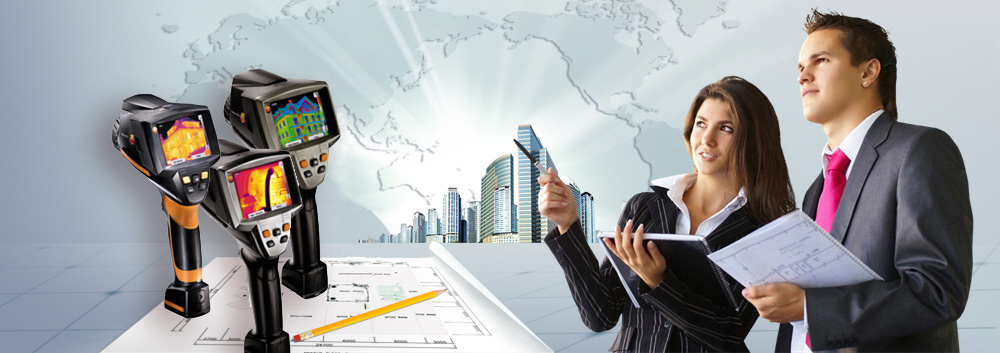
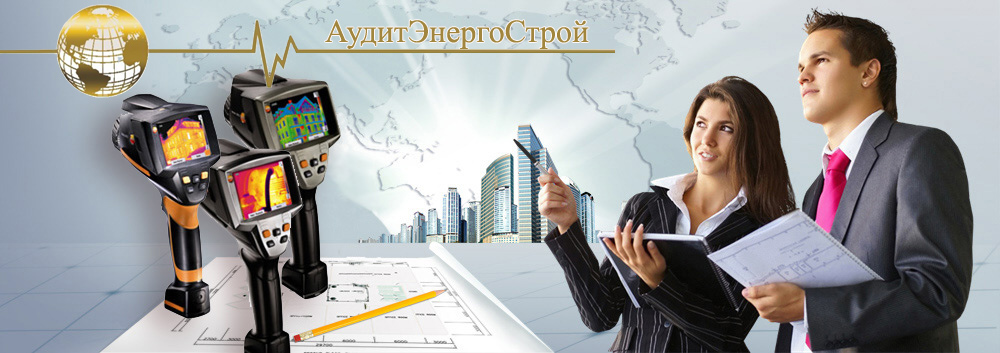
добавлены две страницы. Партнеры и лицензии. Убран логотип.

Changed region(s): [[0.0, 0.0, 0.62, 0.2805]]

diff --git a/template/main/license.html b/template/main/license.html
@@ -1,0 +1,38 @@
+{% extends "layouts/archi.html" %}
+{% block add_css %}
+	<link rel="stylesheet" type="text/css" href="/public/css/application/main/license/style.css" media="screen"/>
+{% endblock %}
+
+{% block title %}Лицензии{% endblock %}
+
+{% block body_title_with_url %}
+	<h2 class="art-postheader">
+		Лицензии
+	</h2>
+{% endblock %}
+
+{% block body_text %}
+	<div class="center">
+		<p>
+			<a href="/public/img/application/main/license/apm_makarov.jpg"><img src="/public/img/application/main/license/preview/apm_makarov.jpg"></a>
+		</p>
+		<p>
+			<a href="/public/img/application/main/license/apm_suhih.jpg"><img src="/public/img/application/main/license/preview/apm_suhih.jpg"></a>
+		</p>
+		<p>
+			<a href="/public/img/application/main/license/mku.jpg"><img src="/public/img/application/main/license/preview/mku.jpg"></a>
+		</p>
+		<p>
+			<a href="/public/img/application/main/license/cpo.jpg"><img src="/public/img/application/main/license/preview/cpo.jpg"></a>
+		</p>
+		<p>
+			<a href="/public/img/application/main/license/suu.jpg"><img src="/public/img/application/main/license/preview/suu.jpg"></a>
+		</p>
+		<p>
+			<a href="/public/img/application/main/license/tuu.jpg"><img src="/public/img/application/main/license/preview/tuu.jpg"></a>
+		</p>
+		<p>
+			<a href="/public/img/application/main/license/udza.jpg"><img src="/public/img/application/main/license/preview/udza.jpg"></a>
+		</p>
+	</div>
+{% endblock %}

diff --git a/template/layouts/archi.html b/template/layouts/archi.html
@@ -79,6 +79,13 @@
 								<span class="t">Предложение заказчика</span>
 							</a>
 						</li>
+						<li class="item468">
+							<a href="/license">
+								<span class="l"></span><span
+									class="r"></span>
+								<span class="t">Лицензии</span>
+							</a>
+						</li>
 					</ul>
 				</div>
 			</div>
@@ -103,12 +110,14 @@
 									<ul class="menu">
 										<li class="active item435"><a href="/">О компании</a></li>
 										<li class="item294"><a href="/energy">Энергоаудит</a></li>
+										<li class="item469"><a href="/certification">Аттестация рабочих мест</a>
 										<li class="item238"><a href="/acts">Законодательство</a></li>
 										<li class="item455"><a href="/experience">Опыт работы</a>
 										</li>
 										<li class="item469"><a href="/contacts">Наши контакты</a></li>
+										<li class="item469"><a href="/partners">Наши партнеры</a></li>
 										<li class="item469"><a href="/offer">Предложение заказчика</a></li>
-										<li class="item469"><a href="/certification">Аттестация рабочих мест</a>
+										<li class="item469"><a href="/license">Лицензии</a></li>
 										</li>
 									</ul>
 

diff --git a/public/css/layout/archi/template.css b/public/css/layout/archi/template.css
@@ -2784,7 +2784,6 @@ left: 25px;  /*Position*/
 top: 10px;  /*Position*/
 width: 329px;  /*Image width*/
 height: 83px;  /*Image height*/
-background-image: url('/public/img/layout/archi/logo.png');  /*Image path*/
 background-repeat: no-repeat;
 background-position: 0 0;
 }

diff --git a/public/css/application/main/license/style.css b/public/css/application/main/license/style.css
@@ -1,0 +1,3 @@
+.center{
+	text-align: center;
+}

diff --git a/application/main/views.py b/application/main/views.py
@@ -108,6 +108,16 @@ def energy(request):
 	return _get_doc('1Yx0pbyKlCm6lBCoZ74OkESiz5UnWKsdzf3dryMqyA_8')
 
 
+@render_to("main/docs.html")
+def partners(request):
+	return _get_doc('1zmIpDSiHQa2_N-oYGhvGiv_tGQaECktvaAw3J4gIDhE')
+
+
+@render_to("main/license.html")
+def license(request):
+	return {}
+
+
 def _get_doc(id, use_cache = True):
 	if googleUser.is_current_user_admin():
 		memcache.delete(id)

diff --git a/application/urls.py b/application/urls.py
@@ -9,6 +9,8 @@ urlpatterns = patterns("",
 	(r"^certification$", "application.main.views.certification"),
 	(r"^energy$", "application.main.views.energy"),
 	(r"^experience$", "application.main.views.experience"),
+	(r"^partners$", "application.main.views.partners"),
+	(r"^license$", "application.main.views.license"),
 
 	(r"^acts/(\d.*)$", "application.main.views.acts"),
 
